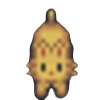
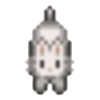
added new cats, map and tiles

diff --git a/src/Tile/TileManager.java b/src/Tile/TileManager.java
@@ -19,7 +19,7 @@ public class TileManager {
         mapTileNum = new int[gp.maxWorldCol][gp.maxWorldRow];
 
         getTileImage();
-        roadMap("/maps/world01.txt");
+        roadMap("/maps/world02.txt");
     }
     public void getTileImage() {
         try {
